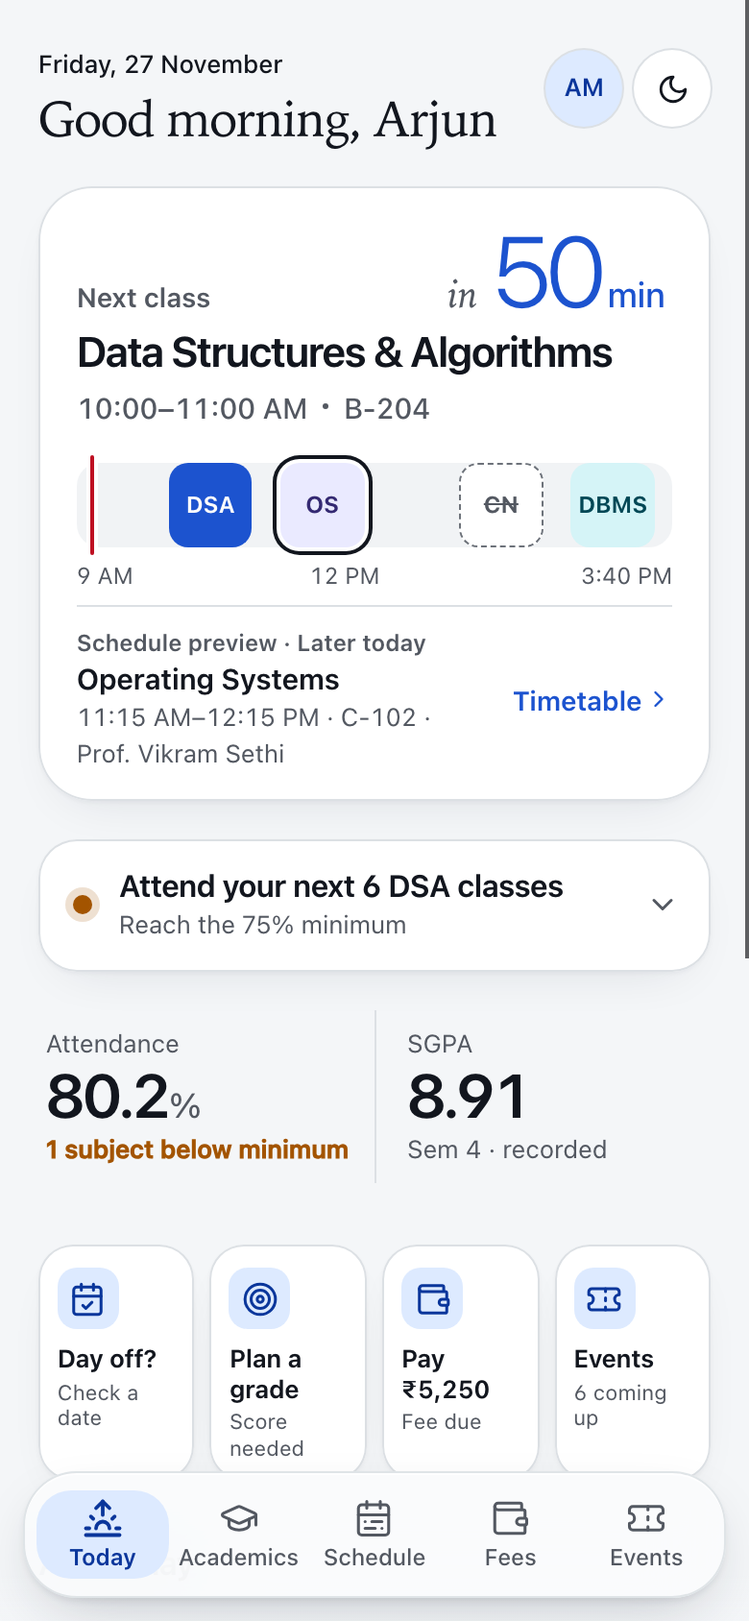
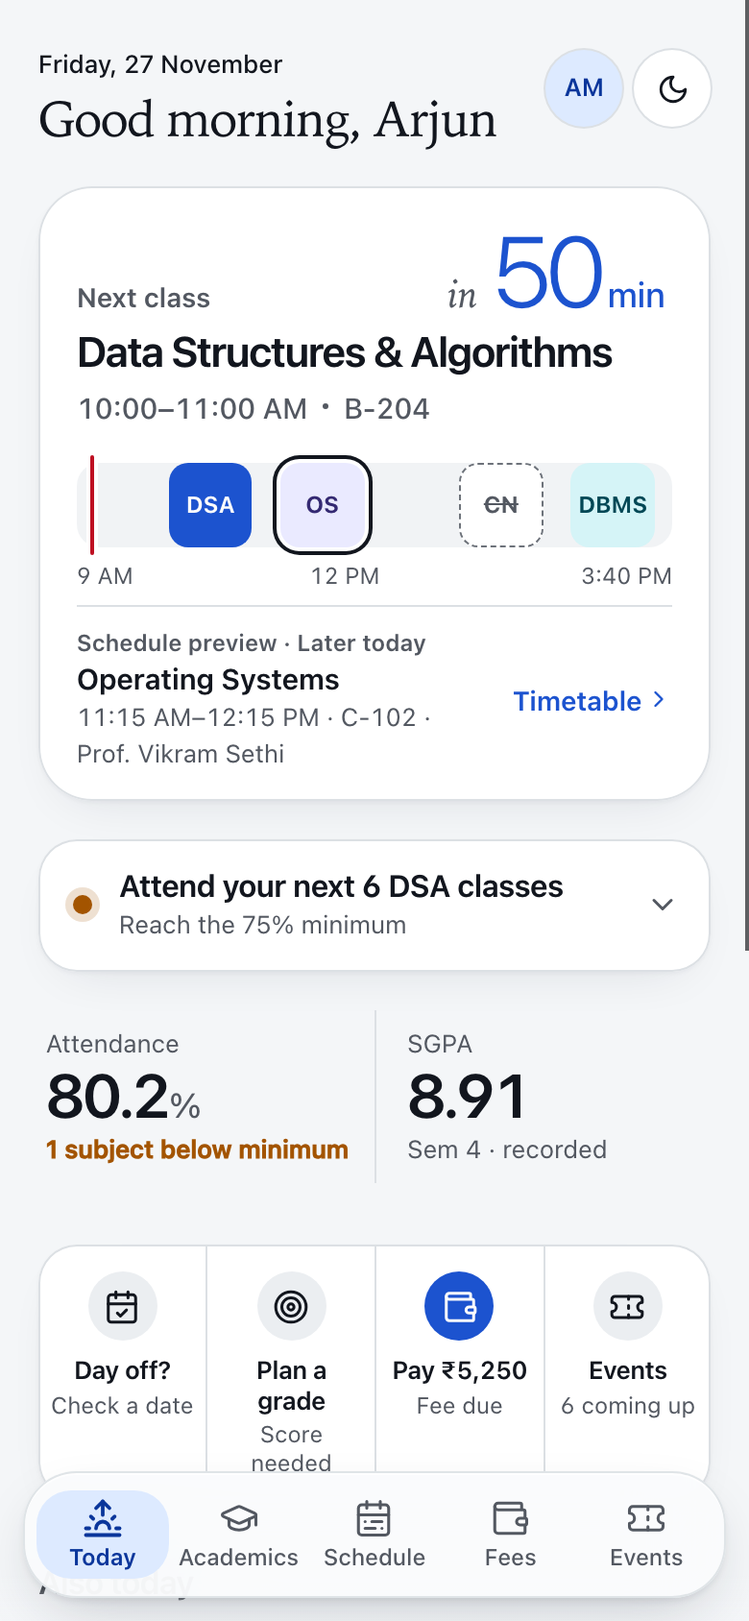
chore(release): finalize CampusOne competition release

diff --git a/README.md b/README.md
@@ -14,17 +14,17 @@ Student workspace built by **Team NexaCoders** (Solo participant) for **Pixelcra
 
 ## Problem
 
-Routine student workflows are commonly split across disconnected portals for attendance logs, grade sheets, daily timetables, fee receipts, and event announcements. Students rarely need another passive chart—they need direct answers to immediate questions: *Which class starts next? How many classes must I attend consecutively to recover 75%? If I skip Saturday, will any subject drop below 75%? What exam score secures my target grade?*
+Routine student workflows are commonly split across disconnected portals for attendance logs, grade sheets, daily timetables, fee receipts, and event announcements. Students rarely need another passive chart—they need direct answers to immediate questions: *Which class starts next? How many classes must I attend consecutively to recover 75%? Which upcoming sequence keeps me above 75%? What exam score secures my target grade?*
 
 ## Core experience
 
-CampusOne organizes student life into six connected screens combining editorial serif titles (`--font-serif`) with tabular sans-serif academic data (`--font-sans`), Porcelain & Cobalt OKLCH surfaces, shared domain fixtures, and pure TypeScript calculation contracts:
+CampusOne organizes student life into six connected screens pairing editorial serif headings (`--font-serif`) with tabular sans-serif academic figures (`--font-sans`), OKLCH Porcelain & Cobalt tokens, shared domain fixtures, and pure TypeScript calculation contracts:
 
-- **Today** — Simplified interactive daily companion: compact one-line greeting, porcelain next-class hero with live countdown (`in 50 min`), tappable duration-proportional class strip opening inline `Schedule preview` rows (reflowing into a full-label stacked chronological list on narrow screens and `200%` text scaling), expandable attendance insight derived from `calculateRecoveryPlan`, quiet Attendance (`80.2%`) and recorded Sem 4 SGPA (`8.91`) links, four contextual quick actions (`Day off?`, `Plan a grade`, `Pay ₹5,250` / `Receipts`, `Events`), `Also today` unresolved alerts, and `Around campus` event previews.
-- **Academics · Attendance** — Answer-first recovery planner leading with the feasibility verdict and `Now` / `End of term` counts (`18 of 26` → `26 of 34`), subject dot-plot field (`75% minimum` rule), full-width trajectory chart (`Today` & `75% minimum`), native `<Dialog>` threshold stepper (`75%`–`100%`), `CS301` recovery (`6` consecutive classes across `8` remaining; `85%` unreachable), and future-only **Day-off checker** (`?focus=day-off`) classifying absences as safe, deficit-recoverable, or unreachable.
-- **Academics · Marks** — Grouped subject ledger with Sem 5 primary progress (`Complete marks for 2 of 4 subjects` with visual segment meter) vs recorded `Sem 4` `8.91`, zero-credit `CS399` audit separation, seven equal-row target grade chips (`O`–`P`, balanced `4+3` reflow under zoom), `ExamScale` banded ruler, and live `What-if` slider (`Try 80`).
-- **Timetable** — Proportional subject-tinted vertical timeline (`08:00`–`18:00`) with `9:10` red time chip, explicit canceled-class hatching (`Computer Networks`), Day/Week switcher (`No classes` Sunday column), `<Dialog>` Class Sheet details, and narrow/zoom agenda fallback.
-- **Fees & Payments** — Perforated dark-navy **Financial Pass** leading with `₹5,250` light display numeral, raised currency sign, and explicit `Mon, 30 Nov, 2026` (`3 days remaining`) deadline, itemized invoice list, simulated checkout sheet with `Demo controls` (**Decline** / **Retry** / **Success**), clear no-transfer notice, and persistent `localStorage` receipts (`RCPT-*`).
+- **Today** — Simplified interactive daily companion: compact one-line serif greeting, porcelain next-class hero with countdown (`in 50 min`), tappable duration-proportional class strip opening inline `Schedule preview` rows (stacking chronologically at `320px` and `200%` text enlargement), expandable attendance insight, quiet Attendance (`80.2%`) and recorded Sem 4 SGPA (`8.91`) links, one grouped quick-action surface (`Day off?`, `Plan a grade`, contextual cobalt-accented `Pay ₹5,250` → `Receipts`, `Events`), `Also today` reminders, and `Around campus` event previews.
+- **Academics · Attendance** — Answer-first recovery planner featuring an interactive numbered class register (explicit attend/skip check & cross toggles, `75%` finish flag only on sustained crossings, accurate deficit wording across all 256 `CS301` combinations), `Now` / `End of term` counts (`18 of 26` → `26 of 34`), trajectory chart, native `<Dialog>` target stepper (`75%`–`100%`), subject dot-plot field, and future-only **Day-off checker** (`?focus=day-off`).
+- **Academics · Marks** — Grouped subject ledger with Sem 5 primary progress (`Complete marks for 2 of 4 subjects` + segment meter) vs recorded `Sem 4` `8.91`, zero-credit `CS399` audit separation, seven single-row target grade chips (`O`–`P`, `4+3` zoom reflow), `ExamScale` banded ruler, and live `What-if` slider (`Try 80`).
+- **Timetable** — Proportional subject-tinted vertical timeline (`08:00`–`18:00`) with `9:10` red time chip, explicit canceled-class hatching (`Computer Networks`), Day/Week switcher (`No classes` Sunday column), `<Dialog>` Class Sheet, and narrow/zoom agenda fallback.
+- **Fees & Payments** — Perforated dark-navy **Financial Pass** leading with `₹5,250` light numeral, raised currency sign, and explicit `Mon, 30 Nov, 2026` (`3 days remaining`) deadline, itemized invoice list, simulated checkout with `Demo controls` (**Decline** / **Retry** / **Success**), reduced-motion-safe completion mark + plain balance summary + receipt stub, and `View latest receipt` lookup (`RCPT-*`).
 - **Campus Events** — Six original editorial SVG + typographic poster artworks (`SYS / 01`–`ZIN / 06`), compact side-by-side mobile featured spotlight, horizontally scrollable category filters (`All`, `Technical`, `Career`, `Academic`, `Cultural`, `Saved`), search, bookmarking, and persistent demo registrations.
 
 ## Demo & controls
@@ -33,7 +33,7 @@ CampusOne organizes student life into six connected screens combining editorial 
 - **GitHub repository:** [https://github.com/abbasahamed/CampusOne](https://github.com/abbasahamed/CampusOne)
 - **Release summary:** [Release notes](docs/RELEASE.md)
 - **Theme switcher:** Open the top-right `AM` avatar or Moon/Sun quick toggle to switch `System`, `Light`, or `Dark`.
-- **Payment simulator:** Open `Review payment -> Demo controls` on `/fees` to test simulated **Decline** (retaining unpaid balance), **Retry**, and **Success** (settling the invoice and switching Today's quick action to `Receipts`).
+- **Payment simulator:** Open `Review payment -> Demo controls` on `/fees` to test simulated **Decline** (retaining unpaid balance), **Retry**, and **Success** (settling the invoice, displaying the receipt stub, and switching Today's quick action to `Receipts`).
 - **Deep links:** Routes preserve query context (`/schedule?date=2026-11-27&view=day`, `/academics/attendance?subject=off-sem5-cs301`, `/academics/attendance?focus=day-off`, `/academics/marks?semester=sem-4`, `/fees?invoice=inv-sem5-lab`, `/events?event=evt-print-lab-26`).
 
 ## Technical setup
@@ -57,36 +57,36 @@ npm run preview     # serve built dist/ locally
 
 ## Accessibility & known limitations
 
-- **Implemented & inspected:** Pre-paint theme selection (`System / Light / Dark`), semantic landmarks (`<main>`, single `<h1>`, `aria-label` nav), native modal `<Dialog>` focus management (heading focus, `Escape` dismissal, trigger focus restoration), high-contrast frosted floating dock (`68.8×46px` equal capsules) with bottom clearance and automatic `Menu` sheet fallback under `320px`/`360px` or `200%` root font scaling, verified contrast ratios on light/dark Timetable blocks (`>= 6.60:1`) and time chip (`>= 6.39:1`), `prefers-reduced-motion` support, and `320px`–`1440px` reflow with zero horizontal overflow.
-- **Explicit limitations:** Verification was conducted in headless desktop Chrome DevTools Protocol across emulated mobile/desktop viewports (`320px`–`1440px`) and `200%` CSS root font enlargement. Physical mobile hardware (iOS/Android), Safari/Firefox cross-browser engines, interactive VoiceOver/NVDA screen-reader walkthroughs, and external social-preview crawlers were not executed. This is not a claim of full WCAG certification.
+- **Implemented & inspected:** Pre-paint theme selection (`System / Light / Dark`), semantic landmarks (`<main>`, single `<h1>`, `aria-label` nav), native modal `<Dialog>` focus management (`Escape` dismissal, trigger focus restoration), high-contrast frosted floating dock (`68.8×46px` equal capsules, adaptive `Menu` sheet under `320px`/`360px` or `200%` text enlargement), `>= 55.84 × 48` CSS px numbered register controls, `prefers-reduced-motion` support across animations and completion checkmarks, verified Timetable contrast (`>= 6.39:1`), and `320px`–`1440px` reflow with zero horizontal overflow.
+- **Explicit limitations:** Verification was conducted in headless desktop Chrome DevTools Protocol across emulated mobile/desktop viewports (`320px`–`1440px`) and `200%` CSS root font enlargement. Physical mobile hardware (iOS/Android), Safari/Firefox cross-browser engines, actual browser zoom, interactive VoiceOver/NVDA walkthroughs, and external social-preview crawlers were not executed. This is not a claim of full WCAG certification.
 
 ## Design, architecture & attribution
 
 - **Project specs:** [Product](docs/PRODUCT.md) · [Design system](docs/DESIGN.md) · [Architecture](docs/ARCHITECTURE.md) · [Roadmap](docs/ROADMAP.md) · [Status](docs/STATUS.md) · [Attribution](docs/ATTRIBUTION.md)
 - **Libraries & assets:** React & React DOM (MIT), React Router DOM (MIT), Lucide Icons (ISC), `@fontsource-variable/inter` (OFL-1.1), Tailwind CSS (MIT), Vite (MIT), TypeScript (Apache-2.0). Original CampusOne gate mark, social card (`public/og-image.png`), attendance visualizations, and six event poster artworks authored for this submission.
-- **AI & design guidance disclosure:** Built with **OpenAI Codex (`GPT-6.2 Sol`)**, **Vercel v0 + Claude Opus 5.5**, **Claude Code Opus** (Phase 11 six-screen refinement and Phase 11A.1 interactive Today redesign), and **Antigravity (`Gemini 4 Hydrogen`)** across core implementation, accessibility polish, verification, and release engineering. Full provenance is documented in [Attribution](docs/ATTRIBUTION.md). No project-wide open-source license has been assigned by the owner.
+- **AI & design guidance disclosure:** Built with **OpenAI Codex** (Phases 00–03/06, Phase 12 case study, and Phase 13B verification/fixes), **Vercel v0 + Claude Opus 5.5**, **Claude Code Opus** (Phases 11, 11A.1, and 13 refinement consulting `unslop` by Damir Sokolovsky [CC BY 4.0] in polish mode without running scripts, plus Laws of UX), and **Antigravity (`Gemini 4 Hydrogen`)** across core implementation, Phase 10B/11B/14A–B integration, verification, and release engineering. Full provenance is documented in [Attribution](docs/ATTRIBUTION.md). No project-wide open-source license has been assigned by the owner.
 
 ## Final screenshots
 
 <table>
   <tr>
-    <td><img src="docs/screenshots/final/01-today.png" alt="Today simplified interactive companion on mobile" width="220" /></td>
-    <td><img src="docs/screenshots/final/02-attendance.png" alt="Attendance dot-plot field and recovery view on mobile" width="220" /></td>
-    <td><img src="docs/screenshots/final/11-marks-target-planner.png" alt="Marks target grade planner sheet on mobile" width="220" /></td>
+    <td><img src="docs/screenshots/final/01-today.png" alt="Today simplified companion with grouped quick actions on mobile" width="220" /></td>
+    <td><img src="docs/screenshots/final/09-attendance-register-default.png" alt="Attendance numbered attend/skip register on mobile" width="220" /></td>
+    <td><img src="docs/screenshots/final/12-marks-target-planner.png" alt="Marks target grade planner sheet on mobile" width="220" /></td>
   </tr>
   <tr>
     <td align="center"><strong>Today</strong></td>
-    <td align="center"><strong>Attendance</strong></td>
+    <td align="center"><strong>Attendance Register</strong></td>
     <td align="center"><strong>Marks Planner</strong></td>
   </tr>
   <tr>
     <td><img src="docs/screenshots/final/04-timetable.png" alt="Day timetable with 9:10 campus time chip" width="220" /></td>
-    <td><img src="docs/screenshots/final/12-fees-payment-review.png" alt="Fees simulated payment review sheet" width="220" /></td>
+    <td><img src="docs/screenshots/final/14-fees-payment-success.png" alt="Fees refined payment completion and receipt stub" width="220" /></td>
     <td><img src="docs/screenshots/final/06-events.png" alt="Campus events with compact featured spotlight" width="220" /></td>
   </tr>
   <tr>
     <td align="center"><strong>Timetable</strong></td>
-    <td align="center"><strong>Fees Review</strong></td>
+    <td align="center"><strong>Fees Settlement</strong></td>
     <td align="center"><strong>Campus Events</strong></td>
   </tr>
 </table>

diff --git a/docs/RELEASE.md b/docs/RELEASE.md
@@ -4,32 +4,30 @@
 **Team:** NexaCoders (Solo) · Pixelcraft 2026 UI/UX Design Challenge  
 **GitHub repository:** <https://github.com/abbasahamed/CampusOne> (`PUBLIC`, branch `master`)  
 **Live production URL:** <https://campusone-pi-flax.vercel.app> (Vercel project `abbas1-46a5/campusone`)  
-**Phase 10B rollback checkpoint:** `2f0d655`
+**Rollback checkpoint:** `62cdbce` (Phase 11B live release) · verified Codex app revision `e1f953c`
 
-## Phase 11B final Opus integration verification (`experiment/opus-design-refinement`)
+## Phase 14A + 14B final competition release
 
-- **Scope:** Integrated Claude Code Opus Phase 11 six-screen refinement (`d5c5433`) and Phase 11A.1 simplified interactive Today companion (`909a6aa`) with targeted fixes for Marks partial-vs-finalized terminology, single-row `390px` / balanced `4+3` zoom grade chips, Today `320px`/`200%` stacked class-strip reflow, `?focus=day-off` focus preservation across `AppShell`, bottom dock clearance, and Timetable Light/Dark contrast.
+- **Scope & reconciliation:** Backed up uncommitted Phase 12 case-study changes (`docs/STATUS.md`, `docs/ATTRIBUTION.md`) outside the repository (`phase12-backup/`), reconciled them with Phase 13 (`d95bb6c`) and Phase 13B (`e1f953c`) records in `experiment/award-level-design` (`27ab99e`), and fast-forwarded `master` without altering `docs/submission/`, `project.zip`, or `CampusOne-opus`. Confirmed zero diff in `src/` between `e1f953c` and `master`.
 - **Static & calculation verification (`npm run typecheck && npm run lint && npm test && npm run build`):**
   - TypeScript (`tsc -b --noEmit`): passed (`0` errors).
   - ESLint (`eslint .`): passed (`0` errors).
-  - Domain calculation suite (`node --test src/domain/*.test.ts`): `6/6` tests passing in `142.99ms`.
-  - Production bundle (`tsc -b && vite build`): built in `776ms` (`dist/index.html` `3.48 kB`, CSS `93.23 kB`, JS `422.56 kB`).
-- **Chrome CDP checks (`vite preview`, `verify-phase11b.mjs`):**
-  - Navigation clearance (`390×844`): all 6 routes `rootOv: 0`, equal dock cells `68.8px` (`68.81px` Events), `lastBottom <= 720.5px` vs `dockTop: 766px`, compact `Menu` fallback active at `320×640` and `390×844 @ 200%`.
-  - Today interactions & `200%`: proportional class strip kept at `390×844`, `OS`/`CN` preview swaps cleanly without altering `50 min` next-class countdown, Attendance insight expands via disclosure (`69.2%`, `8` left, `76.5%` max), `Day off?` scrolls & focuses `.day-off-section` across navigation and reload, and `@ 200%` / `320px` switches to chronological stacked class list (`previewStacked: true`, `ov: 0`).
-  - Marks chips: `390×844` renders 7 even chips on 1 row (`O`–`P`, `47×54px`), `200%` zoom reflows cleanly (`4+3`, `anyClipped: false`).
-  - Timetable computed contrast: Light blocks `8.91:1`–`10.38:1` (`Computer Networks` canceled `6.60:1`, `9:10` chip `6.39:1`); Dark blocks `9.07:1`–`9.73:1` (`Computer Networks` canceled `7.89:1`, `9:10` chip `7.31:1`).
-  - Functional end-to-end journeys: Attendance `75%` (`6` consecutive) and `85%` unreachable, Fees Decline -> Retry -> Success -> Today `Receipts` update, `0` console/runtime errors.
+  - Domain calculation suite (`node --test src/domain/*.test.ts`): `8/8` tests passing in `149.52ms` (including exhaustive 256-plan `CS301` sustained-crossing matrix).
+  - Production bundle (`tsc -b && vite build`): built in `876ms` (`dist/index.html` `3.48 kB`, CSS `97.21 kB`, JS `424.34 kB`).
+- **Consolidated Chrome CDP smoke checks (`vite preview`, `verify-phase14.mjs`):**
+  - Verified all `6` primary screens at `390×844` light/dark and `1440×900` (`0` overflow, `0` console/runtime errors).
+  - Verified Attendance numbered register (`8` cells), `6`-class `75%` recovery (`76.5%`), 7-attend + 1-skip temporary crossing (`73.5%`, no finish flag, `"This plan reaches 75%, then finishes below it. Projected attendance: 73.5%, 25 of 34 classes."`), and `Today -> Day off?` focus.
+  - Verified Fees Decline -> Retry -> Payment complete (`Paid · Simulated`, `₹5,250`, `"Nothing else is due for this semester."`, receipt stub), `View latest receipt` lookup, reload persistence, and Today transition to grouped `Receipts`.
+  - Verified Marks planner, Timetable Day/Week, Events registration persistence, Dark appearance persistence, and direct-route refresh.
 
 ## Screenshot evidence & attribution
 
-- **Curated final competition showcase (`17` matching Opus captures `01`–`17`):** [`docs/screenshots/final/`](screenshots/final)
-- **Phase 11B release verification (`19` captures):** [`docs/screenshots/phase-11b-release/`](screenshots/phase-11b-release)
-- **Preserved Opus milestone evidence:** [`docs/screenshots/phase-11-opus/`](screenshots/phase-11-opus) (`29`) and [`docs/screenshots/phase-11a1-today/`](screenshots/phase-11a1-today) (`12`)
+- **Curated final competition showcase (`18` final captures `01`–`18`):** [`docs/screenshots/final/`](screenshots/final)
+- **Preserved milestone evidence:** [`docs/screenshots/phase-11-opus/`](screenshots/phase-11-opus), [`docs/screenshots/phase-11a1-today/`](screenshots/phase-11a1-today), [`docs/screenshots/phase-11b-release/`](screenshots/phase-11b-release), [`docs/screenshots/phase-13-award/`](screenshots/phase-13-award), and [`docs/screenshots/phase-13b-codex/`](screenshots/phase-13b-codex).
 - **Attribution:** See [`docs/ATTRIBUTION.md`](ATTRIBUTION.md)
 
 ## Known limitations & unverified areas
 
-- Physical mobile device testing (iOS/Android), Safari/Firefox cross-browser testing, interactive screen-reader (VoiceOver/NVDA) testing, and third-party external social link crawler previews were not executed.
+- Physical mobile device testing (iOS/Android), Safari/Firefox cross-browser testing, actual browser zoom, interactive screen-reader (VoiceOver/NVDA) testing, and third-party external social link crawler previews were not executed.
 - All student, attendance, marks, schedule, fee, and event workflows run on fictional demo fixtures (`27 November 2026, 09:10 IST`, `Arjun Menon · 24CS1042`) and local `localStorage` persistence with no backend authentication or real payment processing.
-- Release blockers remaining: **Pending owner authorization to resolve uncommitted whitespace edit in `/Users/abbas/Desktop/CampusOne/src/features/academics/academics.css` before fast-forwarding `master`**.
+- Release blockers remaining: **None**. Frozen for Pixelcraft Round 1.

diff --git a/docs/DESIGN.md b/docs/DESIGN.md
@@ -30,11 +30,11 @@ Foreground/background pairs, cobalt actions (`--on-cobalt` on `--cobalt`), Timet
 
 | Screen | Composition |
 | --- | --- |
-| Today | Unified porcelain next-class hero (`in 50 min`) with interactive proportional class strip opening inline `Schedule preview` rows (stacking chronologically with full class labels at `320px` and `200%` text zoom), expandable `AttendanceInsight` disclosure, quiet Attendance (`80.2%`) + recorded Sem 4 SGPA (`8.91`) links, four contextual quick actions (`Day off?` -> `?focus=day-off`), concise `Also today` reminders, and compact event previews. |
-| Attendance | Answer-first recovery planner with `Now` (`18 of 26`) / `End of term` (`26 of 34`) counts, full-width SVG trajectory (`Today` & `75% minimum` labels), overall dot-plot field, native `<Dialog>` target stepper (`75%`–`100%`), mobile `Can I take a day off?` shortcut, and future-only Day-off checker (`Sat 28`..`Sun 06`). |
+| Today | Unified porcelain next-class hero (`in 50 min`) with interactive proportional class strip opening inline `Schedule preview` rows (stacking chronologically with full class labels at `320px` and `200%` text zoom), expandable `AttendanceInsight` disclosure, quiet Attendance (`80.2%`) + recorded Sem 4 SGPA (`8.91`) links, one grouped quick-action bar (`Day off?` -> `?focus=day-off`, with contextual cobalt emphasis on due fee), concise `Also today` reminders, and compact event previews. |
+| Attendance | Answer-first recovery planner with `Now` (`18 of 26`) / `End of term` (`26 of 34`) counts, interactive numbered attend/skip class register (`>= 48px` cells with check/cross icons and sustained `75%` finish flag), full-width trajectory chart, overall dot-plot field, native `<Dialog>` target stepper (`75%`–`100%`), mobile `Can I take a day off?` shortcut, and future-only Day-off checker (`Sat 28`..`Sun 06`). |
 | Marks | Sem 5 primary (`"Complete marks for 2 of 4 subjects"` with segment meter) vs `Sem 4 recorded 8.91`, grouped subject ledger (`In progress` badge), 0-credit `CS399` audit separation, seven single-row target grade chips (`O`–`P`, `4+3` zoom reflow), `ExamScale` banded ruler, synced `What-if` slider (`Try 80`), and desktop sticky panel / mobile `<Dialog>` sheet. |
 | Timetable | Proportional vertical clock timeline (`08:00`–`18:00`) with `9:10` red time chip, subject-tinted blocks (`.tint-bg-past`), Day/Week switcher (`No classes` Sunday column), narrow/zoom agenda fallback, and `<Dialog>` Class Sheet. |
-| Fees | Perforated dark-navy `Financial Pass` with light numeral (`₹5,250`), raised currency sign, quiet ring texture, explicit `Mon, 30 Nov, 2026 · 3 days remaining` deadline, itemized ledger, `RCPT-*` rows, and simulated `<Dialog>` checkout (`Demo controls`, `"Demo payment · No money will be transferred."`). |
+| Fees | Perforated dark-navy `Financial Pass` with light numeral (`₹5,250`), raised currency sign, quiet ring texture, explicit `Mon, 30 Nov, 2026 · 3 days remaining` deadline, itemized ledger, `RCPT-*` rows (`View latest receipt`), and simulated `<Dialog>` checkout (`Demo controls`, `"Demo payment · No money will be transferred."`, reduced-motion-safe completion check + receipt stub). |
 | Events | Searchable, category-filtered showcase with compact side-by-side mobile featured poster + serif headline so `Coming up` reaches the first fold, six original posters (`SYS / 01`–`ZIN / 06`), bookmarking, and persistent demo registrations. |
 
 [Product](PRODUCT.md) defines acceptance. [Architecture](ARCHITECTURE.md) defines calculations and route context.

diff --git a/docs/STATUS.md b/docs/STATUS.md
@@ -1,12 +1,17 @@
 # CampusOne status
 
+## 27 November 2026 IST · Phase 14A + 14B reconciliation & final production release (`master`)
+
+- **State**: **Frozen and released for Pixelcraft Round 1 on `https://campusone-pi-flax.vercel.app`**. Reconciled uncommitted Phase 12 case-study records (`docs/STATUS.md`, `docs/ATTRIBUTION.md`) with external backups, fast-forwarded `experiment/award-level-design` (`e1f953c` + `27ab99e`) onto `master` (preserving `62cdbce` rollback checkpoint), verified `src/` identical to `e1f953c`, passed build/8-test/smoke gates, refreshed `docs/screenshots/final/` (`18` PNGs + external ZIP), published to GitHub/Vercel, and passed signed-out production acceptance.
+- **Preserved work & submission assets**: Phase 12 backups stored outside the repo (`phase12-backup/`); `docs/submission/` (`CampusOne-Pixelcraft-2026-Case-Study.pdf` & sources), `project.zip`, `docs/screenshots/phase-11b-release.zip`, and the `CampusOne-opus` CSS formatting edit remain untouched.
+
 ## 27 November 2026 IST · Phase 13B audit and Phase 14A integration check
 
 - **Attendance:** Register, chart and displayed counts use the same exact-ratio projections. In the CS301 demo, seven attends then one skip peaks at 25/33 (75.8%) and ends at 25/34 (73.5%), with no finish line. Partial plans show their selected endpoint. Wrapped controls keep class order, stable names, pressed states and one polite result announcement.
 - **Fees and Today:** Verified decline, retry, successful Debit card simulation, duplicate prevention, invoice identity and persisted receipt. The latest receipt uses the payment date. A separate fixture verified the same-semester and other-semester balances. Today removes the paid amount, keeps the grouped actions and opens the existing mobile Marks sheet through its contextual link.
 - **Checks:** Typecheck, lint, 8/8 tests (including all 256 CS301 plans), build and Chrome smoke journeys passed. The 320, 360, 390, 768 and 1440 px matrix and 390 px at 200% CSS root text enlargement had no page overflow. Register targets were at least 55.84 × 48 CSS px. Verified keyboard focus and activation, dock clearance, dialog scrolling, reduced motion, contextual links, event registration and appearance persistence. No browser errors. Physical devices, Safari, Firefox, actual browser zoom and interactive screen readers were outside this verification.
 - **Evidence:** [Phase 13B captures](screenshots/phase-13b-codex). [Attribution](ATTRIBUTION.md) records the Phase 13 practices and license verification.
-- **Integration and handoff:** Local `master` stays at `62cdbce`. Its pre-existing Phase 12 edits to this file and `ATTRIBUTION.md` overlap the incoming history. The submission package and all worktrees were preserved. After the owner resolves those edits, Antigravity can use this experimental checkpoint for the local fast-forward and separate production acceptance.
+- **Integration milestone:** Reconciled with Phase 12 records and integrated onto `master` during Phase 14A–B while preserving `docs/submission/` and all worktrees.
 
 ## 27 November 2026 IST · Phase 13 award-level refinement (`experiment/award-level-design`)
 

diff --git a/docs/ATTRIBUTION.md b/docs/ATTRIBUTION.md
@@ -53,9 +53,11 @@ Antigravity (`Gemini 4 Hydrogen`) integrated the Opus implementation in Phase 11
 
 Claude Opus 5.5 (Claude Code) implemented Phase 13 on `experiment/award-level-design`. It read and applied the installed `unslop` skill by Damir Sokolovsky ([heydamir/unslop](https://github.com/heydamir/unslop), CC BY 4.0) in polish mode: icons carry text colour, one accent per surface, fewer card containers, and motion only where it explains a state change. None of the skill's scripts were run. Laws of UX principles applied: Goal-Gradient and Tesler's Law (the class register's finish line), Von Restorff (only the due fee is accented), Law of Common Region (grouped quick actions) and Peak-End (payment completion). Material Design 3 pages were not consulted during Phase 13.
 
-## Phase 13B independent audit
+## Phase 13B independent audit & Phase 14 integration
 
-OpenAI Codex audited the approved changes, corrected projection and receipt behavior, and verified local Chromium journeys. Target measurements were checked against [WCAG 2.2 SC 2.5.8](https://www.w3.org/WAI/WCAG22/Understanding/target-size-minimum.html). The installed Unslop skill metadata and accompanying license confirm Damir Sokolovsky as author and [CC BY 4.0](https://creativecommons.org/licenses/by/4.0/) as the license. No Unslop scripts or new project dependencies were used.
+OpenAI Codex audited the approved Phase 13 changes, verified all 256 `CS301` attendance combinations and `>= 55.84 × 48` CSS px register controls against [WCAG 2.2 SC 2.5.8](https://www.w3.org/WAI/WCAG22/Understanding/target-size-minimum.html), and fixed sustained-crossing finish-flag / payment-completion / receipt-date behaviors (`e1f953c`). The installed Unslop skill metadata and license confirm Damir Sokolovsky as author and [CC BY 4.0](https://creativecommons.org/licenses/by/4.0/) as the license; no Unslop scripts or new dependencies were executed or added.
+
+Antigravity (`Gemini 4 Hydrogen`) backed up and reconciled Phase 12 case-study records with Phase 13–13B docs (`Phase 14A`), ran consolidated release gates and browser smoke checks (`8/8` tests, `vite build`, Chrome CDP), curated `docs/screenshots/final/` and the external screenshot archive, and published the frozen competition release to GitHub and Vercel (`Phase 14B`).
 
 ## Record when used
 
